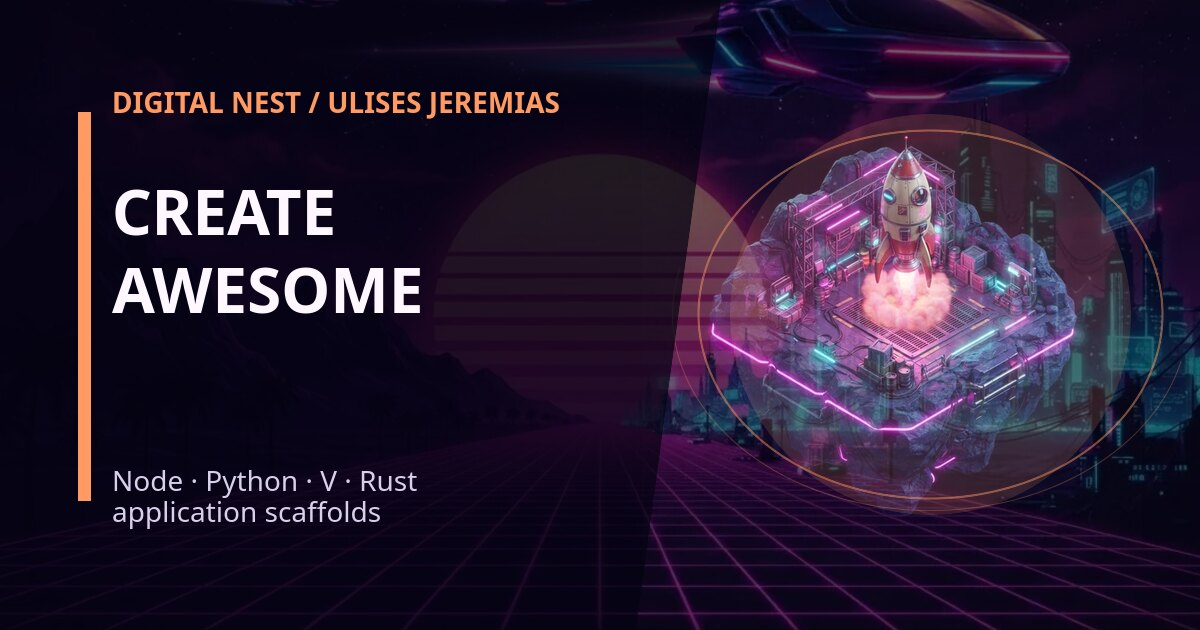
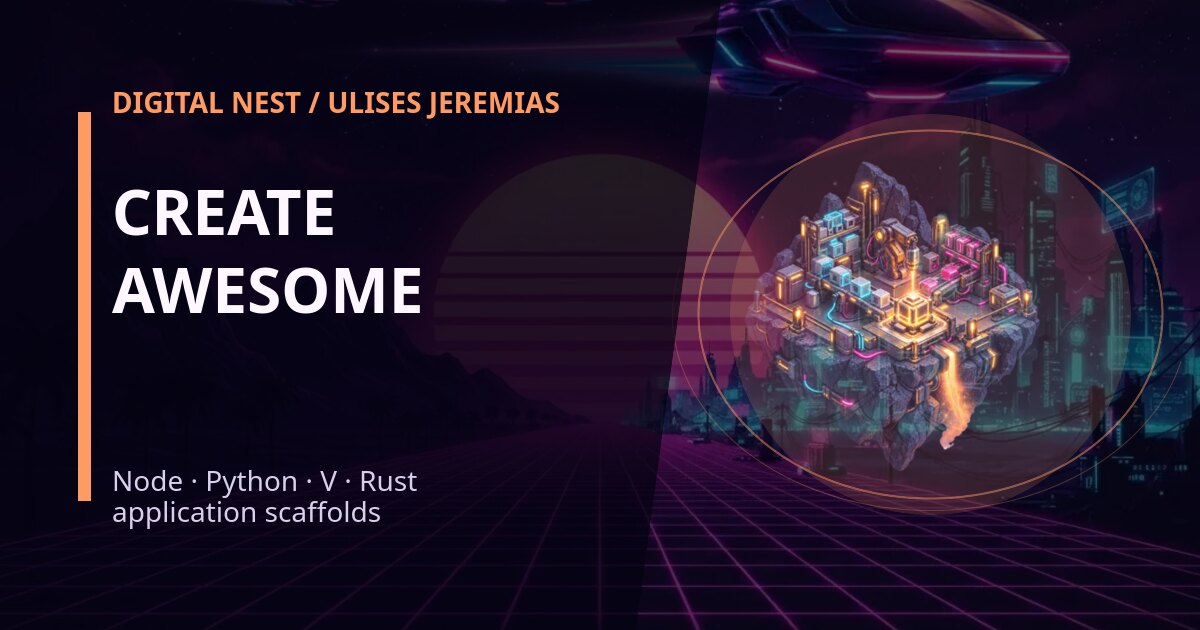
feat(home): add Create Awesome assembly island (#484)
* feat(home): add Create Awesome assembly island

* test(home): focus island capture on featured art

Changed region(s): [[0.5858, 0.2111, 0.8942, 0.8143]]

diff --git a/tests/visual/create-awesome-island.spec.ts b/tests/visual/create-awesome-island.spec.ts
@@ -1,0 +1,40 @@
+import { expect, test } from '@playwright/test';
+
+const asset = 'island-assembly-workshop';
+
+test('Create Awesome island art stays consistent across the homepage and Work map', async ({ page }) => {
+  await page.emulateMedia({ reducedMotion: 'reduce' });
+  await page.setViewportSize({ width: 1440, height: 1100 });
+  await page.goto('/');
+
+  const atlasWorld = page.locator('.atlas-world[data-world-id="create-awesome"]');
+  const atlasSource = atlasWorld.locator('source[type="image/webp"]');
+  await expect(atlasSource).toHaveAttribute('srcset', new RegExp(`${asset}-sm\\.webp`));
+  await expect(atlasWorld.locator('img')).toHaveAttribute('src', `/assets/${asset}.png`);
+  await atlasWorld.locator('img').evaluate((image: HTMLImageElement) => image.decode());
+  await expect(atlasWorld).toHaveScreenshot('create-awesome-island-atlas-desktop.png');
+
+  const featuredCard = page.locator('[aria-labelledby="featured-create-awesome-title"]');
+  await expect(featuredCard.locator('source[type="image/webp"]')).toHaveAttribute(
+    'srcset',
+    new RegExp(`${asset}-192\\.webp`),
+  );
+  await expect(featuredCard.locator('img')).toHaveAttribute('src', `/assets/${asset}.png`);
+  await featuredCard.scrollIntoViewIfNeeded();
+  await expect(featuredCard.locator('.featured-areas__art')).toHaveScreenshot(
+    'create-awesome-island-featured-art-desktop.png',
+  );
+
+  await page.goto('/projects/');
+  const workIsland = page.locator('.archipelago__link[href="/create-awesome"]');
+  const workImage = workIsland.locator('img');
+  await expect(workImage).toHaveAttribute('src', `/assets/nest/${asset}-sm.webp`);
+  await workImage.evaluate((image: HTMLImageElement) => image.decode());
+  await expect(workIsland).toHaveScreenshot('create-awesome-island-work-desktop.png');
+
+  await page.setViewportSize({ width: 390, height: 844 });
+  await page.goto('/');
+  const mobileWorld = page.locator('.atlas-world[data-world-id="create-awesome"]');
+  await mobileWorld.scrollIntoViewIfNeeded();
+  await expect(mobileWorld).toHaveScreenshot('create-awesome-island-atlas-mobile.png');
+});

diff --git a/src/features/home/data/index.ts b/src/features/home/data/index.ts
@@ -11,7 +11,7 @@ export const islandArtByWorldId: Record<string, string> = {
   toolkit: 'island-agent',
   harness: 'island-harness',
   v: 'island-v',
-  'create-awesome': 'island-scaffold',
+  'create-awesome': 'island-assembly-workshop',
   community: 'island-community',
   blog: 'island-blog',
   projects: 'island-projects-neon',
@@ -110,7 +110,7 @@ const featuredAreaVisuals: Record<FeaturedArea['id'], { accent: FeaturedArea['ac
   agentic: { accent: 'violet', island: 'island-agent' },
   hornero: { accent: 'magenta', island: 'island-dotfiles' },
   'v-ecosystem': { accent: 'blue', island: 'island-v' },
-  'create-awesome': { accent: 'orange', island: 'island-scaffold' },
+  'create-awesome': { accent: 'orange', island: 'island-assembly-workshop' },
 };
 
 export const featuredAreas: FeaturedArea[] = getHomepagePortfolioAreas().map((area) => {

diff --git a/docs/design/current/social-assets.md b/docs/design/current/social-assets.md
@@ -85,3 +85,9 @@ fallback.
 
 - Replaced the Agent Toolkit atlas island's generic robot with a first-party capability-distribution diorama; regenerated its responsive WebP, PNG fallback, featured thumbnail, and Agent Toolkit social card.
 - Added `pnpm assets:island-art` to reproduce the authored source's padded responsive variants with the repository's existing ImageMagick toolchain.
+
+## 2026-10-06 update — Create Awesome island
+
+- Replaced the legacy rocket-launch island with an original assembly-workshop diorama: cyan template modules and magenta add-ons converge on a completed orange application artifact.
+- The source illustration was generated for this site with OpenAI image generation, using the former first-party island only as a composition reference. No external artwork, brand marks, or stock imagery is included.
+- Stored the source at `src/features/home/assets/island-assembly-workshop.png`; `pnpm assets:island-art`, `pnpm assets:featured`, and `pnpm assets:social` produce the production variants, Work thumbnail, and Create Awesome social card.

diff --git a/docs/design/current/route-redesign-plan-2026-08.md b/docs/design/current/route-redesign-plan-2026-08.md
@@ -150,3 +150,13 @@ as JavaScript: 889 gzipped bytes. Harness remains at 120,565 bytes total against
 its existing 127,278-byte route ceiling. Its script budget is now 1 KiB, and the
 CSS budget moves one 1 KiB step to 14 KiB for the control, focus, reduced-motion,
 and forced-colors states; the measured stylesheet is 13,570 bytes.
+
+## Create Awesome atlas art — 2026-10-06
+
+The Create Awesome world now uses an assembly-workshop island across the home
+atlas, featured portfolio portal, Work map, and social card. Cyan template
+modules and magenta add-ons feed a completed orange application artifact, so
+the art communicates the project's composition model at a glance. The source is
+first-party image-generation output, recorded with its reference and repeatable
+responsive asset pipeline in `docs/design/current/social-assets.md`. Its 640px
+WebP is 45 KiB, the 440px WebP is 24 KiB, and the 192px thumbnail is 5.9 KiB.
